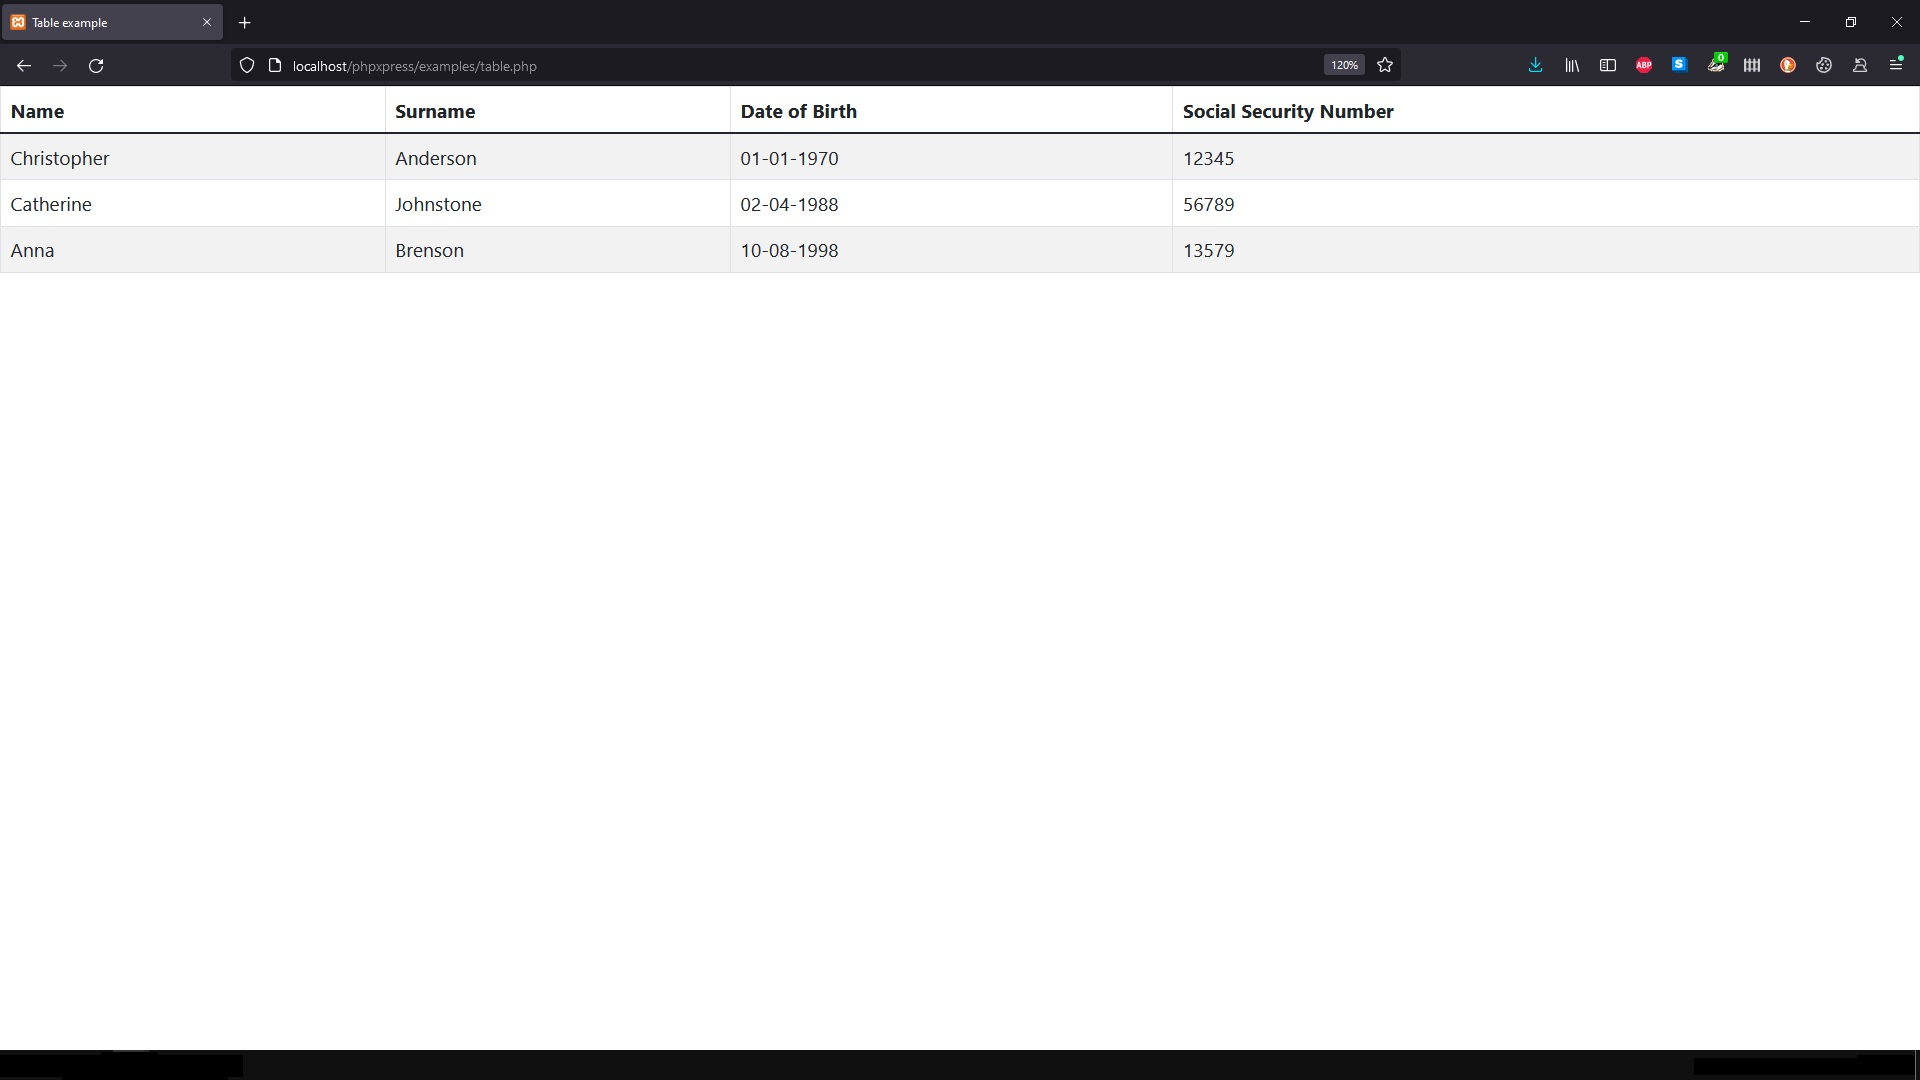
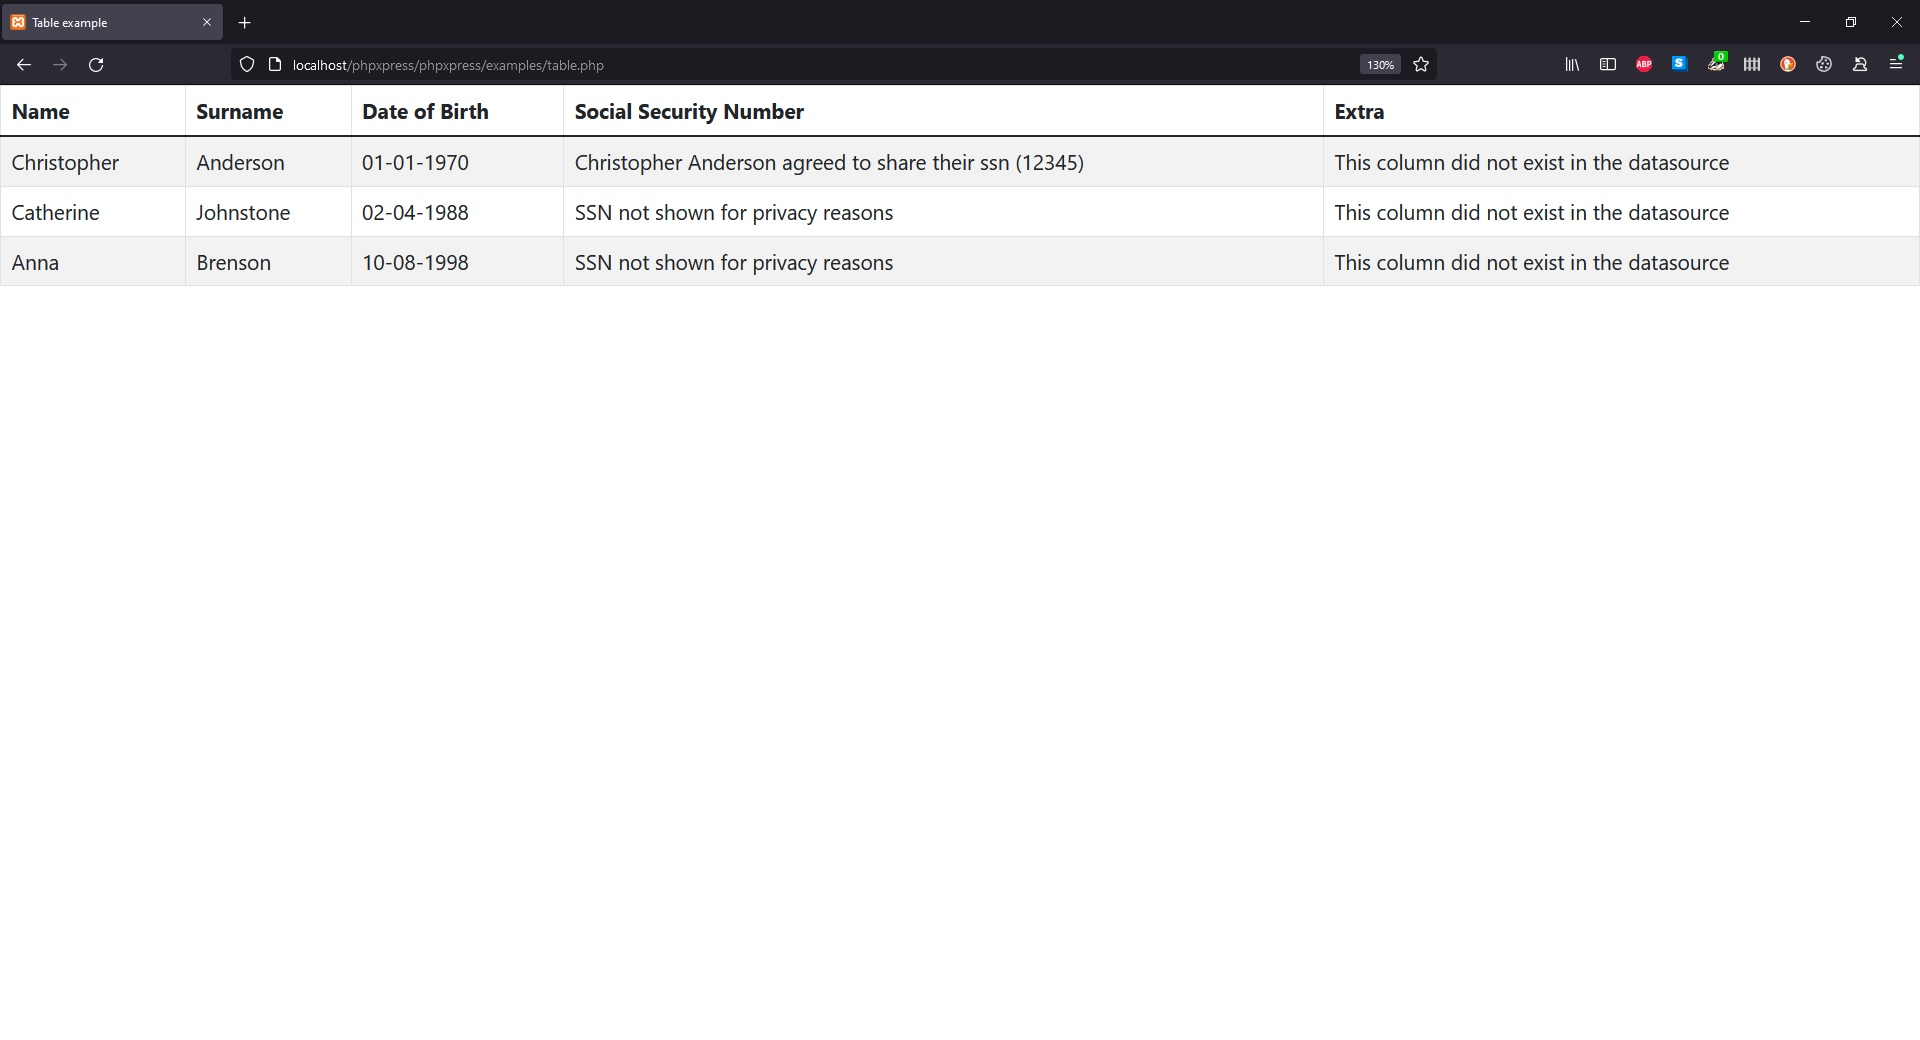
improvements

diff --git a/phpxpress/phpxpress/table.php b/phpxpress/phpxpress/table.php
@@ -46,7 +46,7 @@
           foreach ($obj as $name => $value) {
 
             if(isset( $this -> onValueDisplayingFunctionName)){
-              call_user_func_array($this -> onValueDisplayingFunctionName , array($name, &$value));
+              call_user_func_array($this -> onValueDisplayingFunctionName , array($name, &$value, (array)$obj));
             }
             echo '<td>' . $value . '</td>';
 
@@ -83,16 +83,40 @@
       }
 
       /*
+      ** if you use addColumn() either
+      ** 1) you do not use any dataSource
+      ** 2) you set the dataSource prior to call this method (otherwise it won't be correctly shown)
+      */
+      function addColumn($captionName){
+
+        if(isset($this->columnCaptions)){
+          array_push($this->columnCaptions , $captionName);
+        }
+        else{
+          $this->columnCaptions = array($captionName);
+        }
+
+        // Add this property to every object/array of the dataSource
+        if(isset($this->dataSource)){
+          foreach($this->dataSource as $obj){
+            $obj->{$captionName} = null;
+          }
+        }
+
+      }
+
+      /*
       ** The Event "onValueDisplaying" gets fired just before the displaying of a value within
       ** a table body, so you can display your own value if you want to.
       ** The function you have to provide must have this signature:
       **
-      **                        function myFunction($caption, &$value){...}
+      **                        function myFunction($caption, &$value, $row){...}
       **
       ** You can change "caption" and "value" to whichever name you want.
       **
-      ** caption: the ACTUAL fieldname of the dataSource whose value belong
+      ** caption: the ACTUAL fieldname of the dataSource whose value belongs to
       ** value:   the value you want to display.
+      ** row:     an associative array representing the row being processed
       */
       function onValueDisplaying($functionName){
         if(!is_callable($functionName))

diff --git a/phpxpress/examples/table.php b/phpxpress/examples/table.php
@@ -37,17 +37,28 @@
             $table = new Table;
             $table->setDataSource($employees);
             $table->setCustomCaptions(array("Name", "Surname", "Date of Birth", "Social Security Number"));
+
+            $table->addColumn("Extra");
+
+            $table->onValueDisplaying("onValueDisplaying");
+
             $table->setStripedRows(true);
             $table->setBordered(true);
             $table->setHoverAnimation(true);
 
-            $table->onValueDisplaying("onValueDisplaying"); // event
-
             $table->draw();
 
-            function onValueDisplaying($caption, &$value){
+            function onValueDisplaying($caption, &$value, $row){
                 if($caption == "ssn"){
-                    $value = "SSN not shown for privacy reasons";
+                    if($row["ssn"] != "12345"){
+                        $value = "SSN not shown for privacy reasons";
+                    }
+                    else{
+                        $value = $row["name"] . " " . $row["surname"] . " agreed to share their ssn (12345)" ;
+                    }
+                }
+                else if($caption == "Extra"){
+                    $value = "This column did not exist in the datasource";
                 }
             }
 

diff --git a/README.md b/README.md
@@ -6,7 +6,7 @@ It's similar to Microsoft's WebForms with a great layout by default (like DevExp
 ## Available components
 * Table
 * Card
-* Breadcumb
+* Breadcrumb
 
 ## Examples
 
@@ -22,11 +22,29 @@ $table->setDataSource($employees);
 
 $table->setCustomCaptions(array("Name", "Surname", "Date of Birth", "Social Security Number")); //not required. If not specified it'll use objects' property names
 
+$table->addColumn("Extra");
+
+$table->onValueDisplaying("onValueDisplaying");
+
 $table->setStripedRows(true);
 $table->setBordered(true);
 $table->setHoverAnimation(true);
 
 $table->draw();
+
+function onValueDisplaying($caption, &$value, $row){
+	if($caption == "ssn"){
+		if($row["ssn"] != "12345"){
+			$value = "SSN not shown for privacy reasons";
+        }
+        else{
+			$value = $row["name"] . " " . $row["surname"] . " agreed to share their ssn (12345)" ;
+        }
+    }
+    else if($caption == "Extra"){
+		$value = "This column did not exist in the datasource";
+    }
+}
 ```
 
 produces the following output
